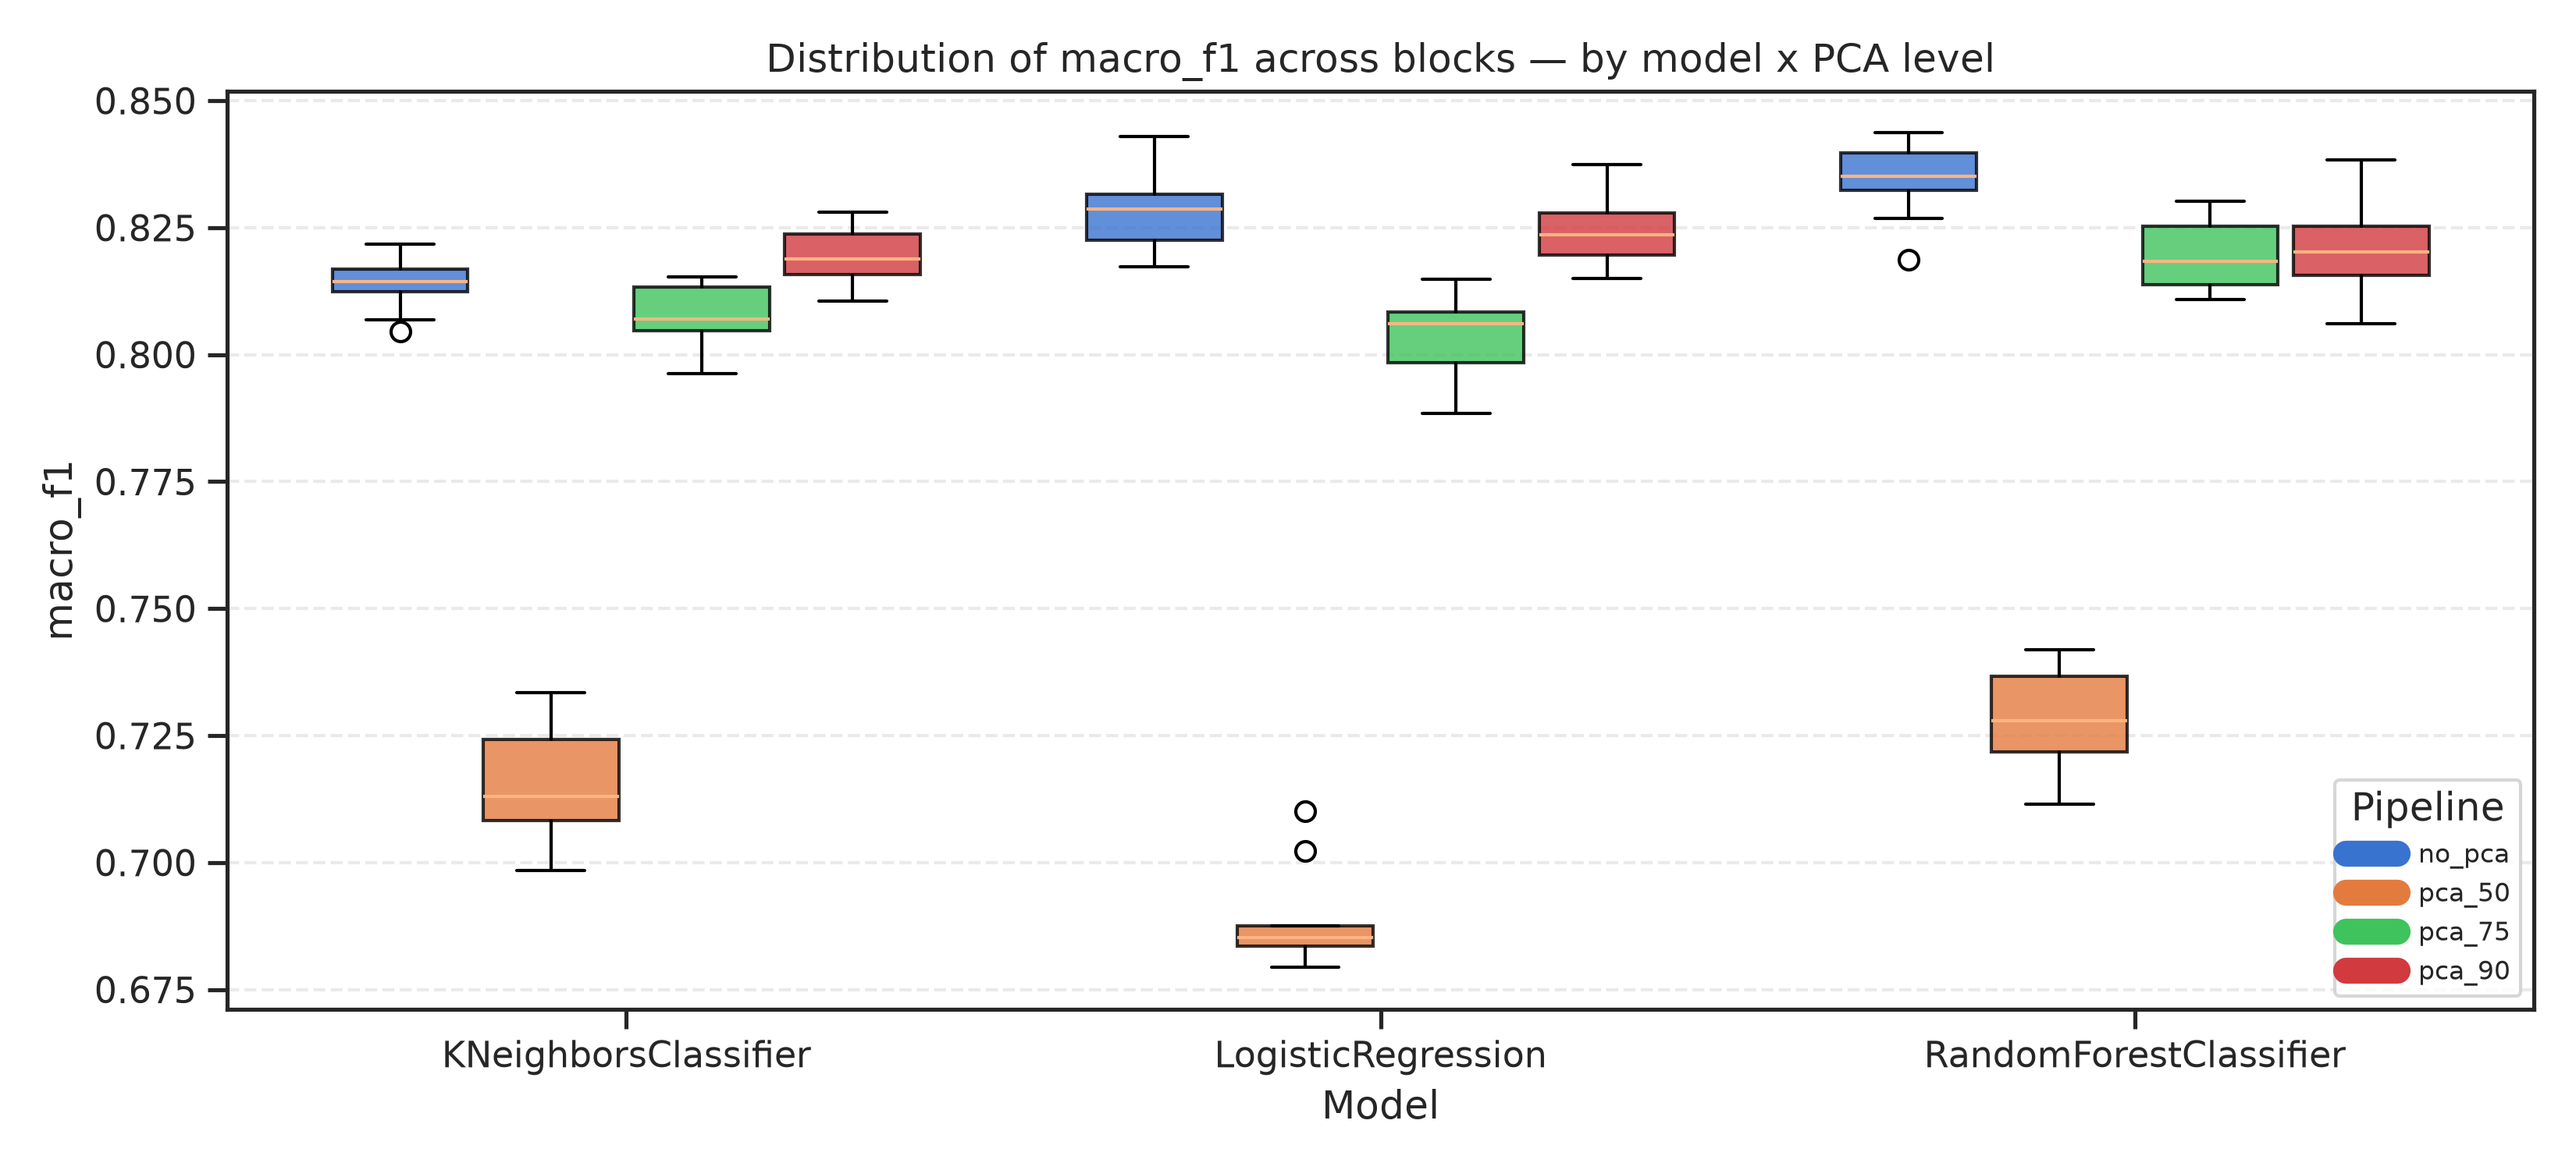
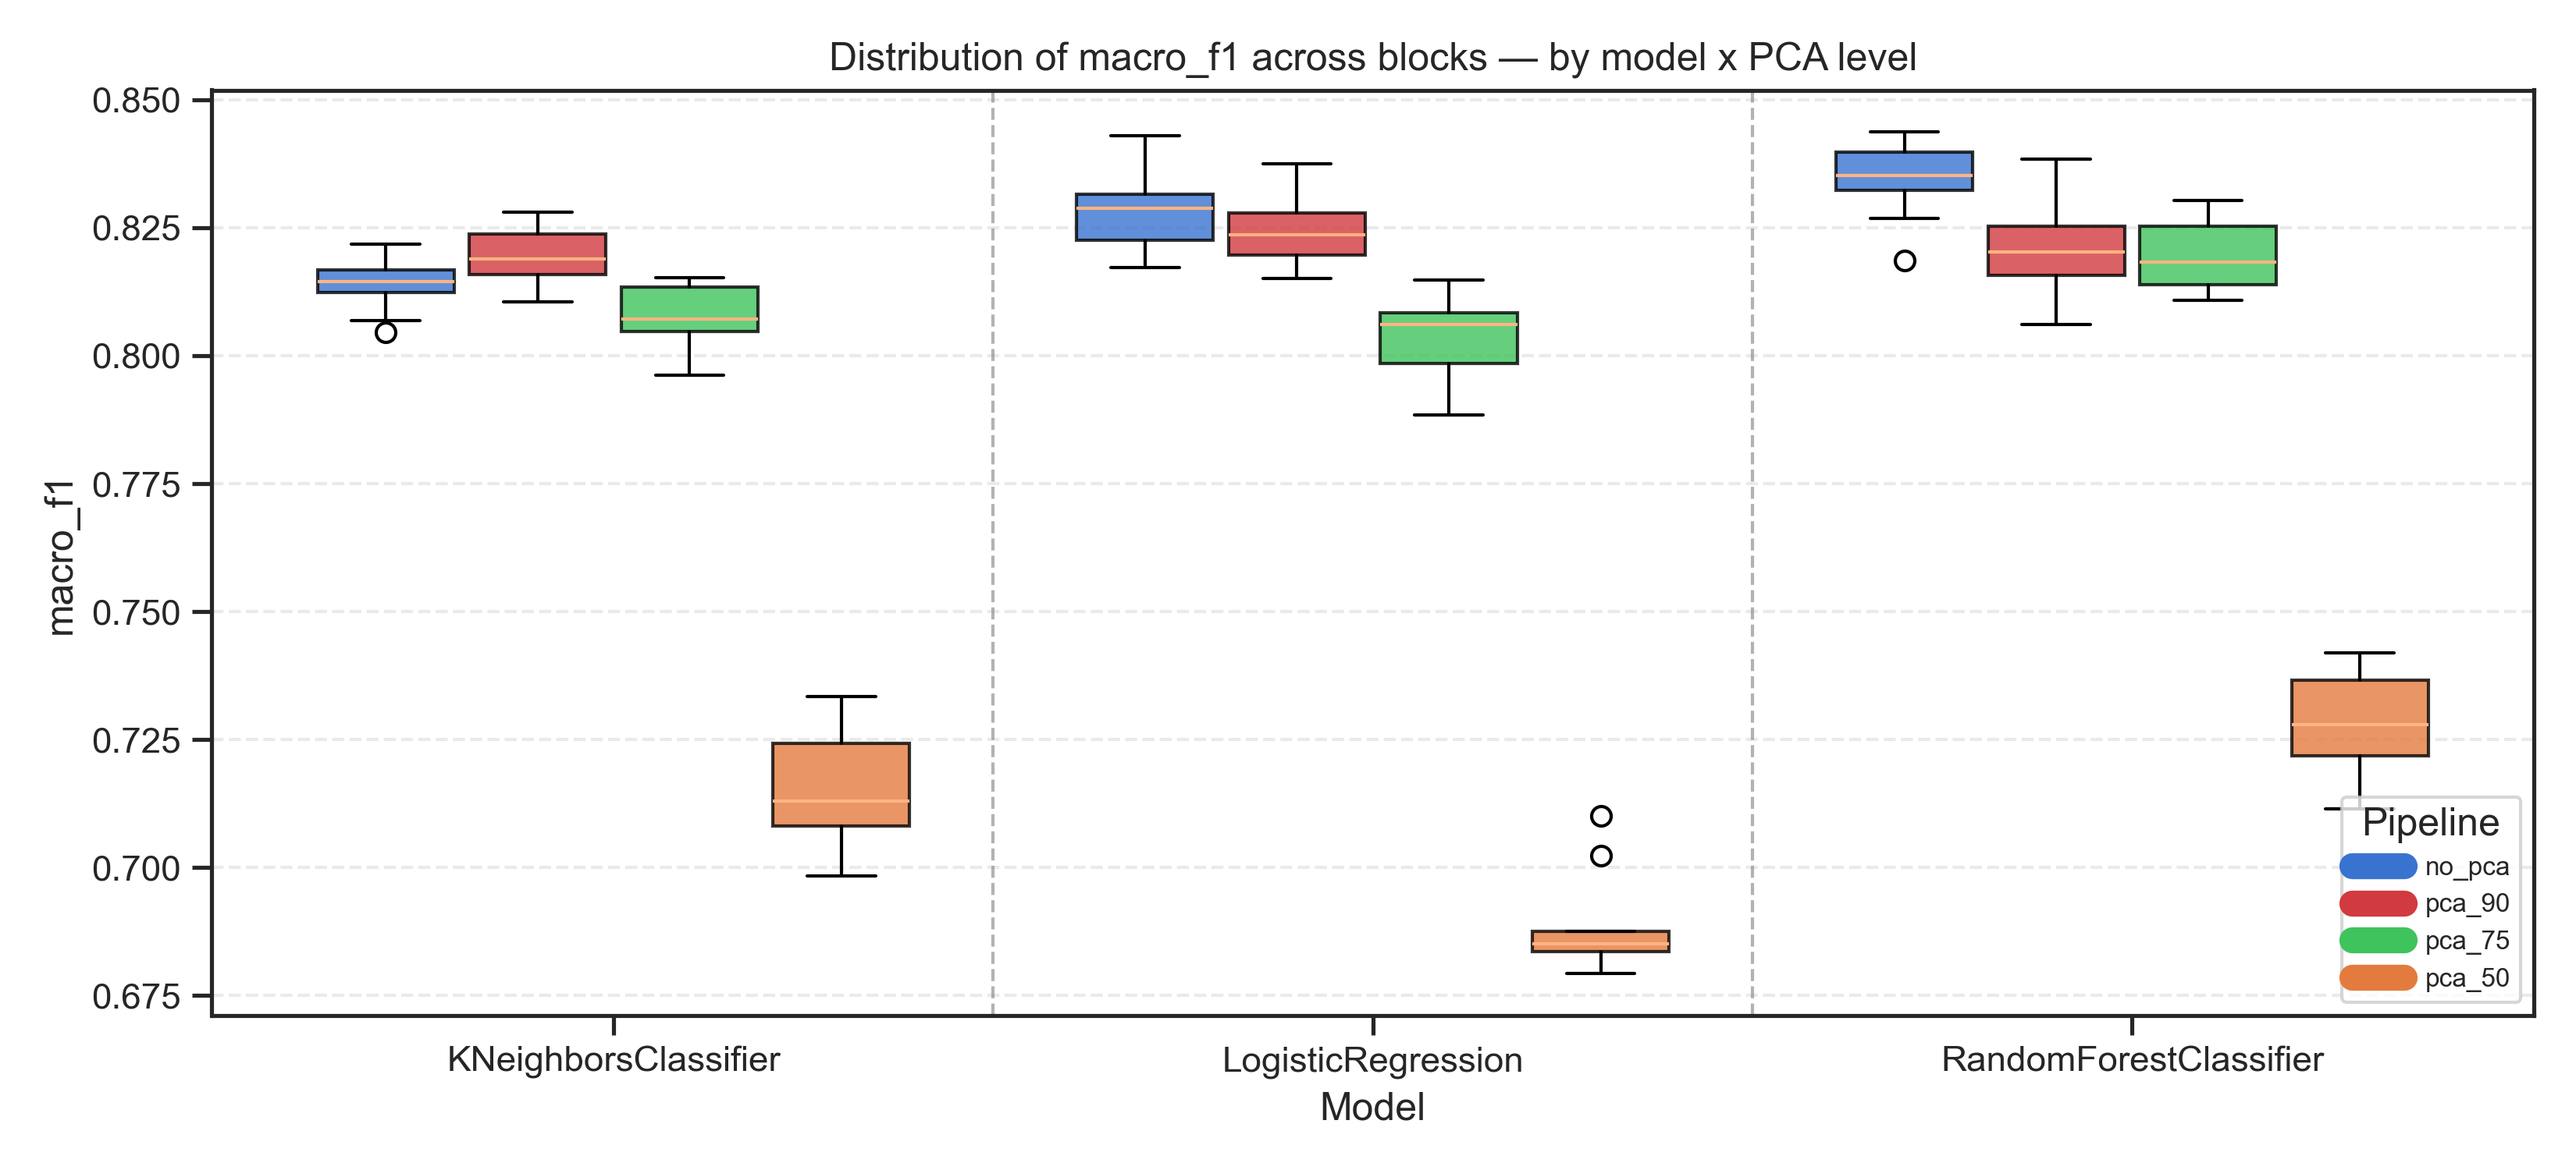
fix: update `PCA` order, metric and bubble plot layout
- Reorder `PCA` levels to no_pca -> pca_90 -> pca_75 -> pca_50
- Change paired plot metric to `accuracy`
- Reposition bubble plot legends for better readability

diff --git a/src/analysis/draw_figure.py b/src/analysis/draw_figure.py
@@ -19,7 +19,7 @@ SCALING_PIPELINE_PALETTE = {
     "scaled": "#3EC35D",
 }
 
-PCA_PIPELINE_ORDER = ["no_pca", "pca_50", "pca_75", "pca_90"]
+PCA_PIPELINE_ORDER = ["no_pca", "pca_90", "pca_75", "pca_50"]
 PCA_PIPELINE_PALETTE = {
     "no_pca": "#3973D0",
     "pca_50": "#E47B3E",
@@ -79,6 +79,16 @@ def draw_boxplot_by_pipeline(
             box.set_alpha(0.8)
         ax.plot([], [], color=pipeline_palette[pipeline], label=pipeline, linewidth=8)
 
+    # Vẽ đường gạch dọc ở giữa các vị trí model
+    for x in x_base[:-1]:
+        ax.axvline(
+            x + 0.5, 
+            color="gray", 
+            linestyle="--", 
+            linewidth=1, 
+            alpha=0.6
+        )
+
     ax.set_xticks(x_base)
     ax.set_xticklabels(MODEL_ORDER)
     ax.set_xlabel("Model")
@@ -95,7 +105,7 @@ def draw_paired_line_by_pipeline(
     df,
     pipeline_order,
     pipeline_palette,
-    metric="macro_f1",
+    metric="accuracy",
     figsize=(18, 5),
 ):
     fig, axes = plt.subplots(
@@ -186,39 +196,36 @@ def draw_bubble_runtime(
     runtime_col="fit_runtime_sec",
     metric="macro_f1",
     title=None,
-    figsize=(10, 6),
+    figsize=(11, 5.5),
 ):
     summary = (
         df.groupby(["pipeline", "model"], observed=True)
         .agg(metric_mean=(metric, "mean"), runtime_mean=(runtime_col, "mean"))
         .reset_index()
     )
- 
+
     fig, ax = plt.subplots(figsize=figsize, dpi=DPI)
     x_positions = {p: i for i, p in enumerate(pipeline_order)}
- 
-    # 1. BIẾN ĐỔI LOGARITHM ĐỂ GIỮ TỶ LỆ CHUẨN XÁC
+
+    # 1. BIẾN ĐỔI LOGARITHM
     log_runtime = np.log1p(summary["runtime_mean"])
- 
-    # Scale diameter theo log
     d_min, d_max = 12, 45
     log_min, log_max = log_runtime.min(), log_runtime.max()
- 
+
     if log_max > log_min:
         summary["diameter"] = d_min + (log_runtime - log_min) / (log_max - log_min) * (d_max - d_min)
     else:
         summary["diameter"] = (d_min + d_max) / 2
- 
-    # Diện tích = (đường kính)^2
+
     summary["size"] = summary["diameter"] ** 2
- 
+
     for model in MODEL_PALETTE:
         sub = summary[summary["model"] == model]
         if sub.empty:
             continue
- 
+
         xs = [x_positions[p] for p in sub["pipeline"]]
- 
+
         ax.scatter(
             xs,
             sub["metric_mean"],
@@ -228,60 +235,67 @@ def draw_bubble_runtime(
             edgecolors="white",
             linewidth=1,
         )
- 
+
     ax.set_xticks(list(x_positions.values()))
     ax.set_xticklabels(list(x_positions.keys()))
     ax.set_xlabel("Pipeline")
     ax.set_ylabel(metric)
     ax.set_title(title or f"{metric} vs {runtime_col} by pipeline (bubble size = log-scaled runtime)")
- 
-    # Legend Model - Góc dưới trái
+
+    # Giữ khoảng đệm biên chuẩn
+    ax.set_xlim(-0.5, len(pipeline_order) - 0.5)
+    y_min, y_max = summary["metric_mean"].min(), summary["metric_mean"].max()
+    y_pad = (y_max - y_min) * 0.15 if y_max > y_min else 0.05
+    ax.set_ylim(y_min - y_pad, y_max + y_pad)
+
+    # 1. LEGEND MODEL
     model_handles = [
         plt.Line2D([0], [0], marker="o", color="w", markerfacecolor=c, markersize=8)
         for c in MODEL_PALETTE.values()
     ]
-    ax.legend(
+    # Lề dưới của box legend bằng đúng đáy trục Ox
+    leg_model = ax.legend(
         model_handles,
         list(MODEL_PALETTE.keys()),
         loc="lower left",
-        bbox_to_anchor=(0.02, 0.15),
-        fontsize=7,
+        bbox_to_anchor=(1.02, 0.0),
+        fontsize=8,
         title="Model",
-        labelspacing=0.8,
-        borderpad=0.8,
+        borderaxespad=0,
     )
- 
-    plt.tight_layout()
- 
-    # 2. VẼ THƯỚC ĐO DIAMETER THEO THANG LOG (GÓC DƯỚI PHẢI)
+
+    # 2. THƯỚC ĐO DIAMETER
     r_min = summary["runtime_mean"].min()
     r_max = summary["runtime_mean"].max()
- 
+
     legend_vals = np.array(
         [r_min, r_min + (r_max - r_min) * 0.1, r_min + (r_max - r_min) * 0.4, r_max]
     )
- 
+
     log_vals = np.log1p(legend_vals)
     x_coords = (
         (log_vals - log_min) / (log_max - log_min) if log_max > log_min else np.linspace(0, 1, 4)
     )
- 
-    ax_leg = fig.add_axes([0.70, 0.16, 0.26, 0.08])
+
+    ax_leg = fig.add_axes([0.80, 0.35, 0.14, 0.06])
     ax_leg.axis("off")
- 
+
     y_line = 0.5
     ax_leg.plot([0, 1], [y_line, y_line], color="gray", lw=1)
- 
+
     for x, val in zip(x_coords, legend_vals):
         ax_leg.plot([x, x], [y_line - 0.15, y_line + 0.15], color="gray", lw=1)
         ax_leg.text(x, y_line - 0.35, f"{val:.1f}", ha="center", va="top", fontsize=7, color="#333333")
- 
+
     ax_leg.text(0.0, y_line + 0.3, "Diameter (log scale)", ha="left", va="bottom", fontsize=8, color="#333333")
-    ax_leg.text(0.5, y_line - 0.5, f"{runtime_col} (s)", ha="center", va="top", fontsize=7, color="#333333")
- 
+    ax_leg.text(0.5, y_line - 0.7, f"{runtime_col} (s)", ha="center", va="top", fontsize=7, color="#333333")
+
     ax_leg.set_xlim(-0.05, 1.05)
-    ax_leg.set_ylim(0, 1)
- 
+    ax_leg.set_ylim(-0.2, 1.2)
+
+    # Dành lề bên phải rộng đủ để chú thích không bị đè hay tràn viền
+    fig.subplots_adjust(right=0.78, bottom=0.15)
+
     return plt
 
 
